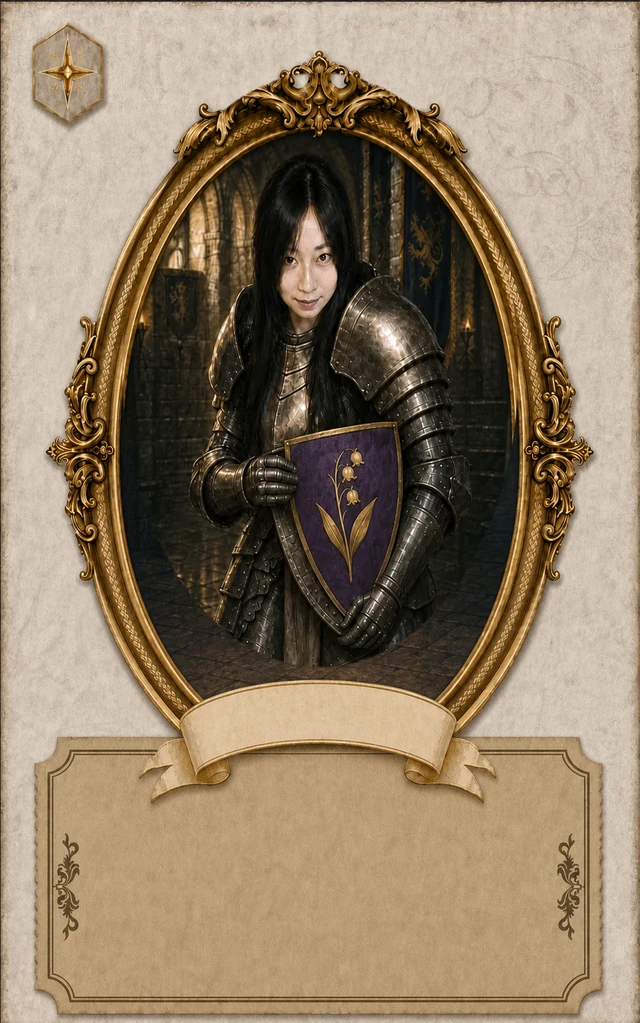
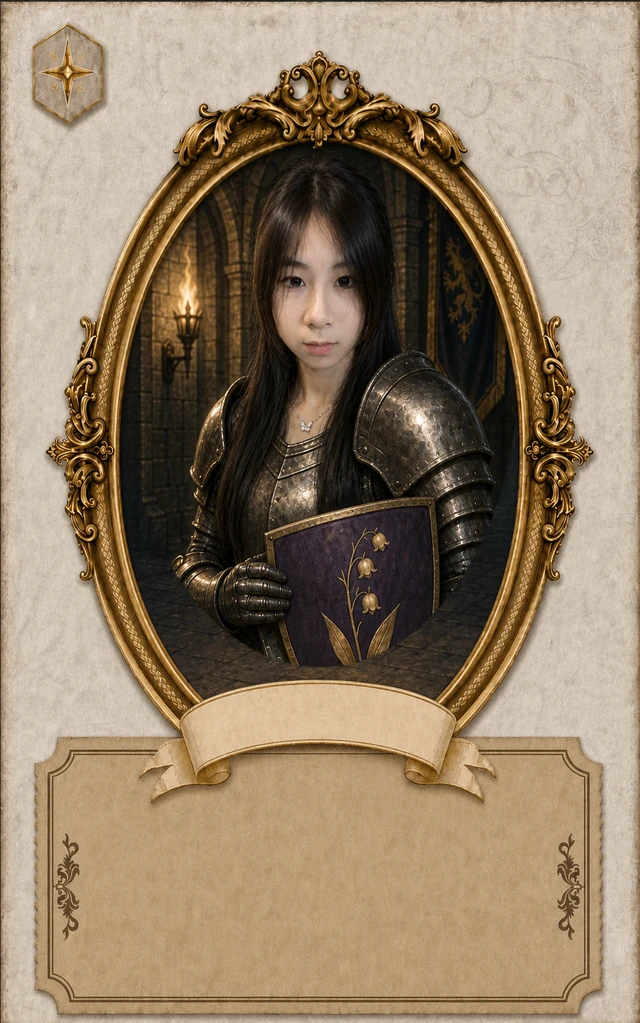
Update Hermione's member portrait to the new likeness.
Keep the shared gold-frame template and bust the card image cache so the new art loads.

Changed region(s): [[0.1875, 0.0606, 0.8125, 0.6667], [0.2188, 0.4848, 0.25, 0.5152]]

diff --git a/frontend/src/utils/imageUrl.ts b/frontend/src/utils/imageUrl.ts
@@ -20,7 +20,7 @@ export function getImageUrl(path: string | null | undefined): string | null {
   const url = `${BACKEND_HTTP_BASE}${webpPath}`
   // 顾客立绘、卡面曾被长缓存；换 query 才能立刻拿到新图
   if (/\/images\/(customer|cards)\//i.test(webpPath)) {
-    return `${url}?v=20260902a`
+    return `${url}?v=20260902b`
   }
   return url
 }
